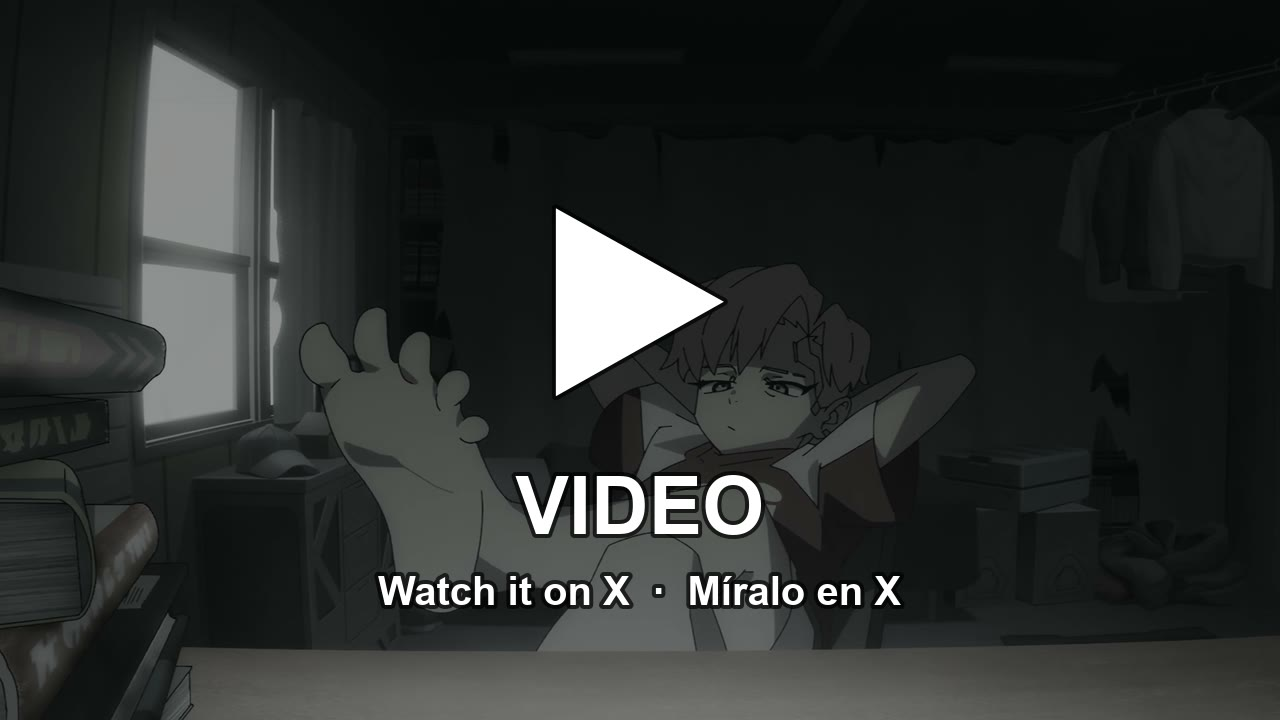
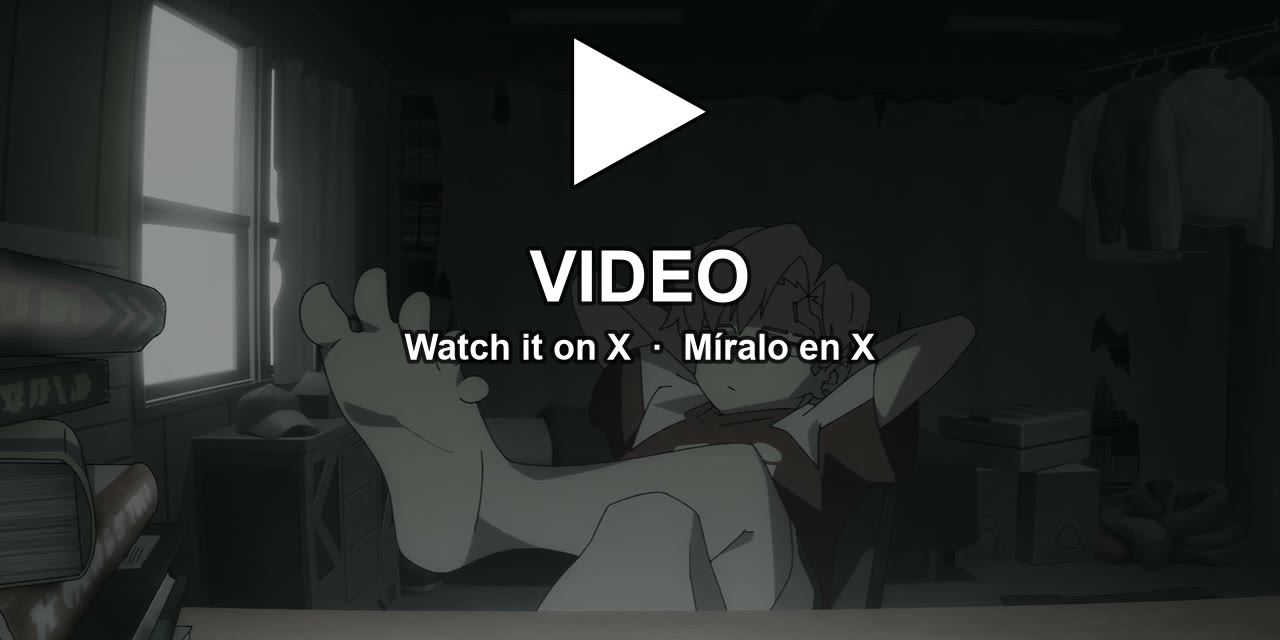
news: 2:1 video cover with the play button and text in the visible top part

diff --git a/scripts/update_news.py b/scripts/update_news.py
@@ -153,12 +153,15 @@ def video_cover(video_url, tweet_id):
                              f"fontsize={size}", "fontcolor=white", "borderw=4",
                              "bordercolor=black@0.7", "x=(w-tw)/2", f"y={y}"])
 
+        # 2:1 y todo en la parte de arriba: la tarjeta de la app corta la imagen a 250 px de
+        # alto en pantallas anchas, y el ticker de la web la recorta a un cuadrado del centro
         filters = ",".join([
-            "scale=1280:-2",
+            "scale=1280:640:force_original_aspect_ratio=increase",
+            "crop=1280:640",
             "drawbox=x=0:y=0:w=iw:h=ih:color=black@0.45:t=fill",
-            text("▶", "h/3", "(h-th)/2-h*0.08", "seguisym.ttf"),
-            text("VIDEO", "h/9", "h*0.66", "arialbd.ttf"),
-            text("Watch it on X  ·  Míralo en X", "h/18", "h*0.80", "arialbd.ttf"),
+            text("▶", "h/3.4", "h*0.06", "seguisym.ttf"),
+            text("VIDEO", "h/9", "h*0.39", "arialbd.ttf"),
+            text("Watch it on X  ·  Míralo en X", "h/18", "h*0.52", "arialbd.ttf"),
         ])
         # un cuadro de 1 s adentro (el primero suele ser negro); si el video es mas corto, el primero
         for start in ("1", "0"):
